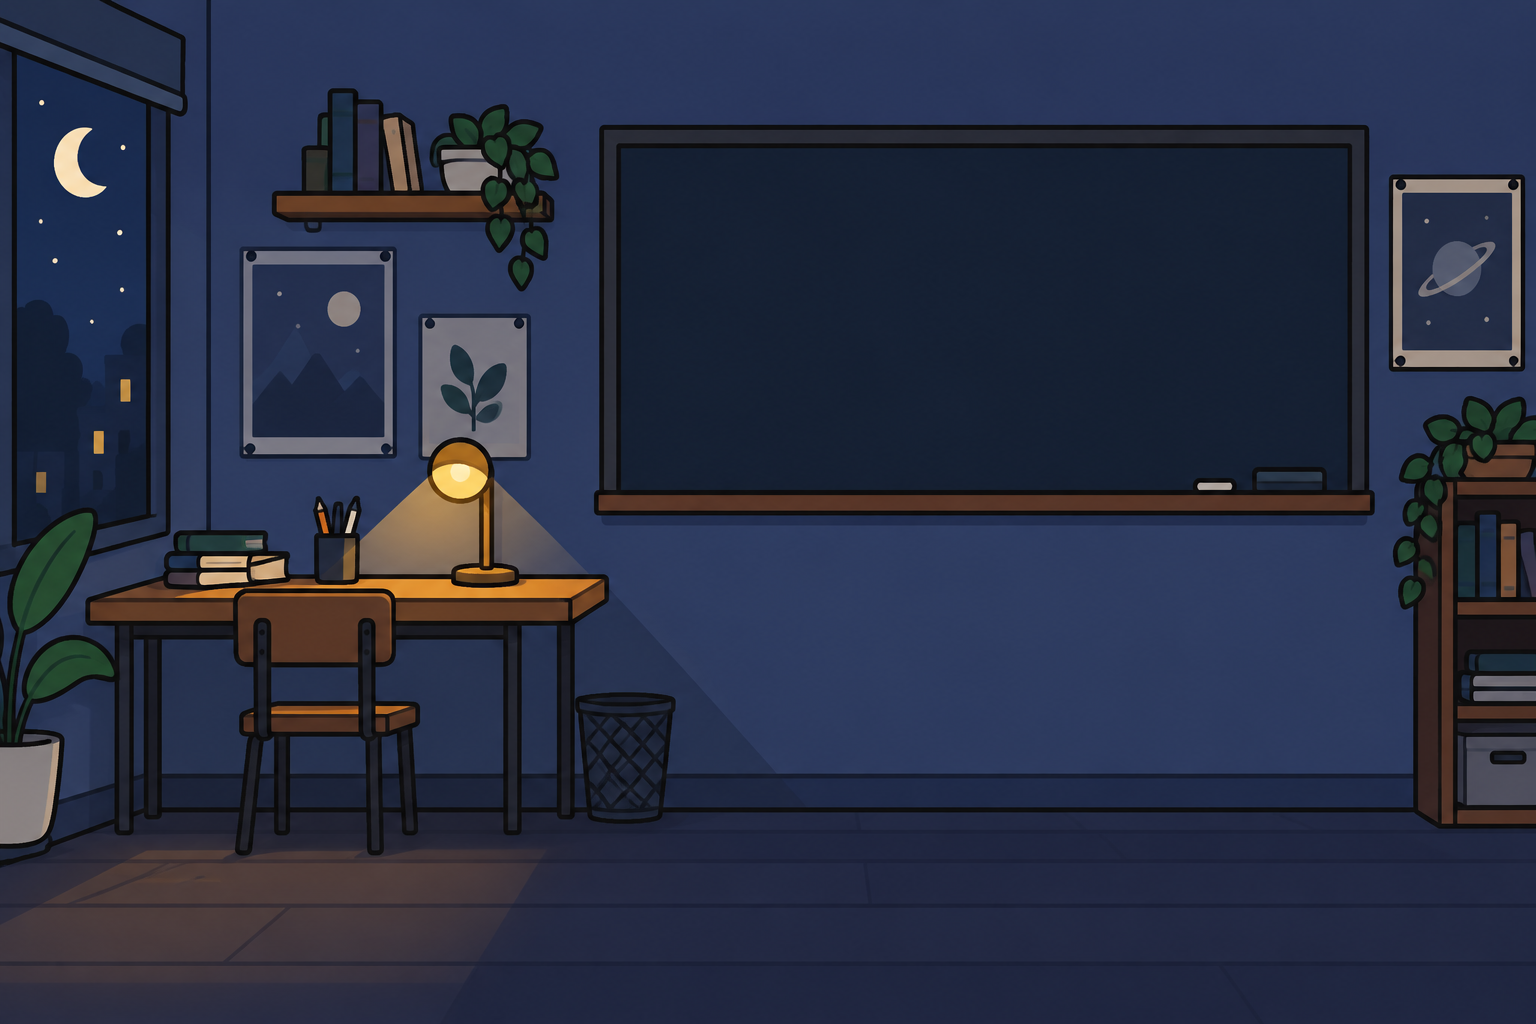
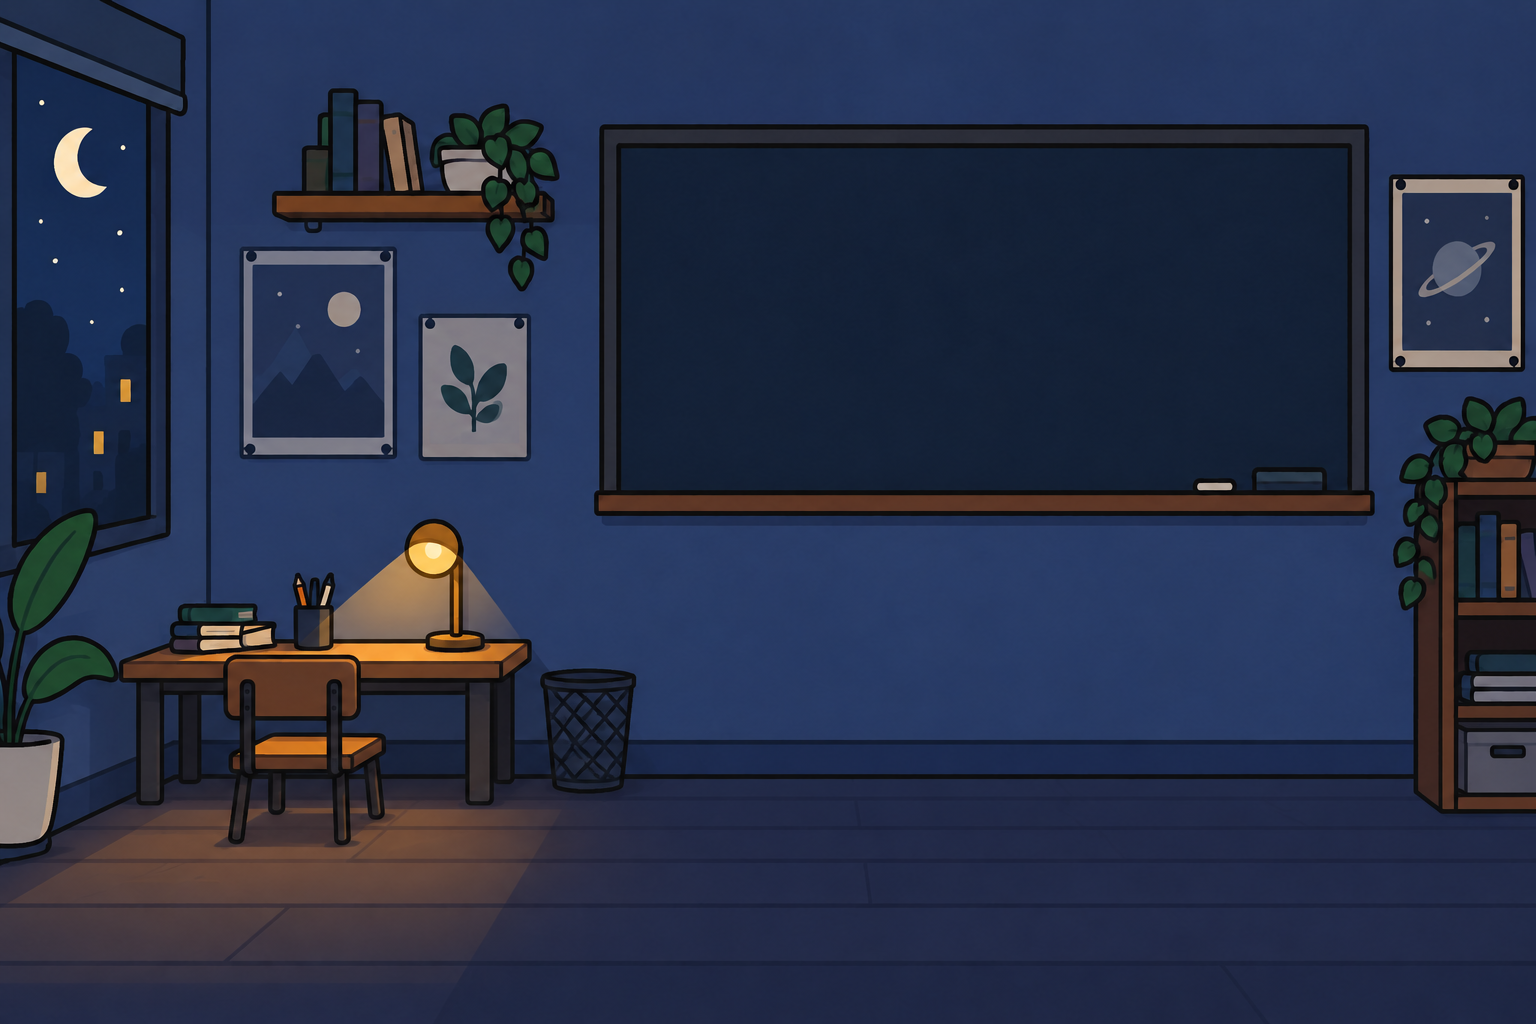
Ролик 01: фон кабинета с низким столом, стол спереди (Leon между стулом и столом), убран кодовый стол s072

Changed region(s): [[0.0, 0.4062, 1.0, 0.9062]]

diff --git a/razgon-animation-studio/projects/what-if-9999-iq/scenes/shots/03_c.js b/razgon-animation-studio/projects/what-if-9999-iq/scenes/shots/03_c.js
@@ -17,7 +17,7 @@ def('s068', { set: 'interiorWarm', cam: 'push', chars: [{ w: 'KIDBG', x: 0.12, s
 def('s069', { set: 'bedroom', cam: 'push', chars: [{ w: 'LEON', x: 0.3, s: 1.8, pose: 'stand', expr: 'smile' }], fx: (g, t, info, c) => { X.notepage(g, 0.5 * W(), 360, 360, 300, { rot: -0.04 }); inkCircle(g, 0.5 * W(), 220, 12, { fill: ui().accent }); X.sneaker(g, 0.5 * W() - 90, 420, 0.5); D.arrow(g, [0.5 * W() - 30, 400], [0.5 * W() + 110, 340], { t, start: 0.4, bend: 0.3 }); X.sneaker(g, 0.5 * W() + 120, 460, 0.4, 0.2); } });
 def('s070', { set: 'void', cam: 'push', plateY: 0.34, capAt: { 'SLEEP': [0.5, 0.09, 84] }, fx: (g, t) => { X.sneaker(g, 760, 760, 2.0, 0, 1); X.sneaker(g, 1240, 760, 2.0, 0, -1); const u = X.pop(t, 0.5); D.icon(g, 'cross', 1000, 560, 150 * u, { color: ui().accent }); } });
 def('s071', { set: 'night', cam: 'push', chars: [{ w: 'LEON', x: 0.2, s: 1.9, pose: 'stand', expr: 'sleepy' }], fx: (g, t, info, c) => { inkRect(g, 0.55 * W(), c.GY - 90, 360, 90, { fill: '#fff', r: 40 }); } });
-def('s072', { set: 'studyNight', cam: 'push', chars: [{ w: 'LEON', code: true, x: 0.2, s: 1.8, pose: 'sit', expr: 'determined' }], pre: (g, t, info, c) => { X.desk(g, 0.28 * W(), c.GY + 10, 2.2); } });
+def('s072', { set: 'studyNight', cam: 'push', chars: [{ w: 'LEON', code: true, x: 0.2, s: 1.8, pose: 'sit', expr: 'determined' }], pre: () => {} });
 def('s073', { set: 'studyNight', cam: 'push', chars: [{ w: 'LEON', code: true, x: 0.2, s: 1.6, pose: 'sit', expr: 'determined' }], fx: (g, t, info, c) => { X.formula(g, 760, 220, 800, 6, t, 0.2); for (let i = 0; i < 8; i++) inkCircle(g, 800 + (i * 211) % 800, 200 + (i * 97) % 280, 30 + (i % 3) * 14, { fill: alpha('#f6d86a', 0.25), stroke: false }); } });
 def('s074', { set: 'studyNight', cam: 'push', chars: [{ w: 'LEON', code: true, x: 0.3, s: 1.8, pose: 'wave', expr: 'determined' }], fx: (g, t, info, c) => { inkRect(g, 1000, c.GY - 160, 640, 160, { fill: '#e4572e', r: 10 }); inkRect(g, 1620, c.GY - 230, 120, 230, { fill: C.woodD, r: 8 }); inkRect(g, 1020, c.GY - 200, 220, 70, { fill: '#fff', r: 30 }); } });
 def('s075', { set: 'studyNight', cam: 'push', ty: 0.1, chars: [{ w: 'LEON', code: true, x: 0.22, s: 1.7, pose: 'sit', expr: [[0, 'determined'], [3, 'sleepy']] }], fx: (g, t, info, c) => { X.desk(g, 0.28 * W(), c.GY + 10, 2.2); const n = 2 + Math.floor(t * 1.1); for (let i = 0; i < n; i++) X.page(g, 0.55 * W() + (i % 3) * 40, c.GY - 30 - i * 26, 200, 26, []); const hh = t < 2.5 ? 0 : t < 4.8 ? 2 : 4; clock(g, 1530, 340, 92, hh, 0); } });

diff --git a/razgon-animation-studio/projects/what-if-9999-iq/scenes/lib.js b/razgon-animation-studio/projects/what-if-9999-iq/scenes/lib.js
@@ -145,6 +145,11 @@ const SETS = {
 const BG_IMG = true, BG_SETS = ['classroom', 'interiorCool', 'parking', 'bus', 'livingRoom', 'interiorWarm', 'gym', 'bedroom', 'studyNight', 'street', 'office', 'pond', 'nbhd'];
 const BGIM = await loadImages(Object.fromEntries(BG_SETS.map((n) => [n, project(`assets/bg/${n}.png`)])));
 if (BG_IMG) for (const n of BG_SETS) { const orig = SETS[n]; SETS[n] = (g, o) => { const r = orig(g, o), im = BGIM[n]; g.drawImage(im, 0, 80, im.width, im.height - 160, -E.W * 0.05, -E.H * 0.03, E.W * 1.1, E.H * 1.06); return r; }; }
+// Столешница из фона studyNight поверх героя: Leon оказывается между стулом (сзади) и столом (спереди).
+function deskFront(g) {
+  const im = BGIM.studyNight, kx = (E.W * 1.1) / im.width, ky = (E.H * 1.06) / (im.height - 160), sx = 70, sy = 398, sw = 275, sh = 42;
+  g.drawImage(im, sx, sy, sw, sh, -E.W * 0.05 + sx * kx, -E.H * 0.03 + (sy - 80) * ky, sw * kx, sh * ky);
+}
 export const set = (name, g, o) => (SETS[name] || SETS.void)(g, o);
 
 // ---------- кровать: Leon ЛЕЖИТ на подушке, укрыт одеялом, кепка на тумбочке ----------
@@ -222,6 +227,7 @@ export function def(id, spec) {
       if (spec.close && spec.iq) iqTag(g, t, E.W * 0.5, E.H * 0.13, 'LEON', 0, 0.4);
       if (spec.close) closeUp(g, spec.close, t, spec.chars && spec.chars.length ? undefined : wins[0]);
       if (spec.fx) spec.fx(g, t, info, ctx);
+      if (BG_IMG && spec.set === 'studyNight' && (spec.chars || []).some((c) => c.w === 'LEON')) deskFront(g);   // стол спереди: Leon сидит между стулом (сзади) и столом (спереди)
     });
     if (spec.iq) iqTitle(g, t, info);
     overlay(g, t, info, spec, heads.length ? heads : spec.close ? (() => { const c = spec.close, r = c.r ?? 330, cx = (c.x ?? 0.5) * E.W, cy = (c.y ?? 0.62) * E.H; return [{ x: cx - r * 0.55, y: cy - r * 1.62 + 110 }]; })() : [{ x: E.W / 2, y: E.H * 0.55 }]);
